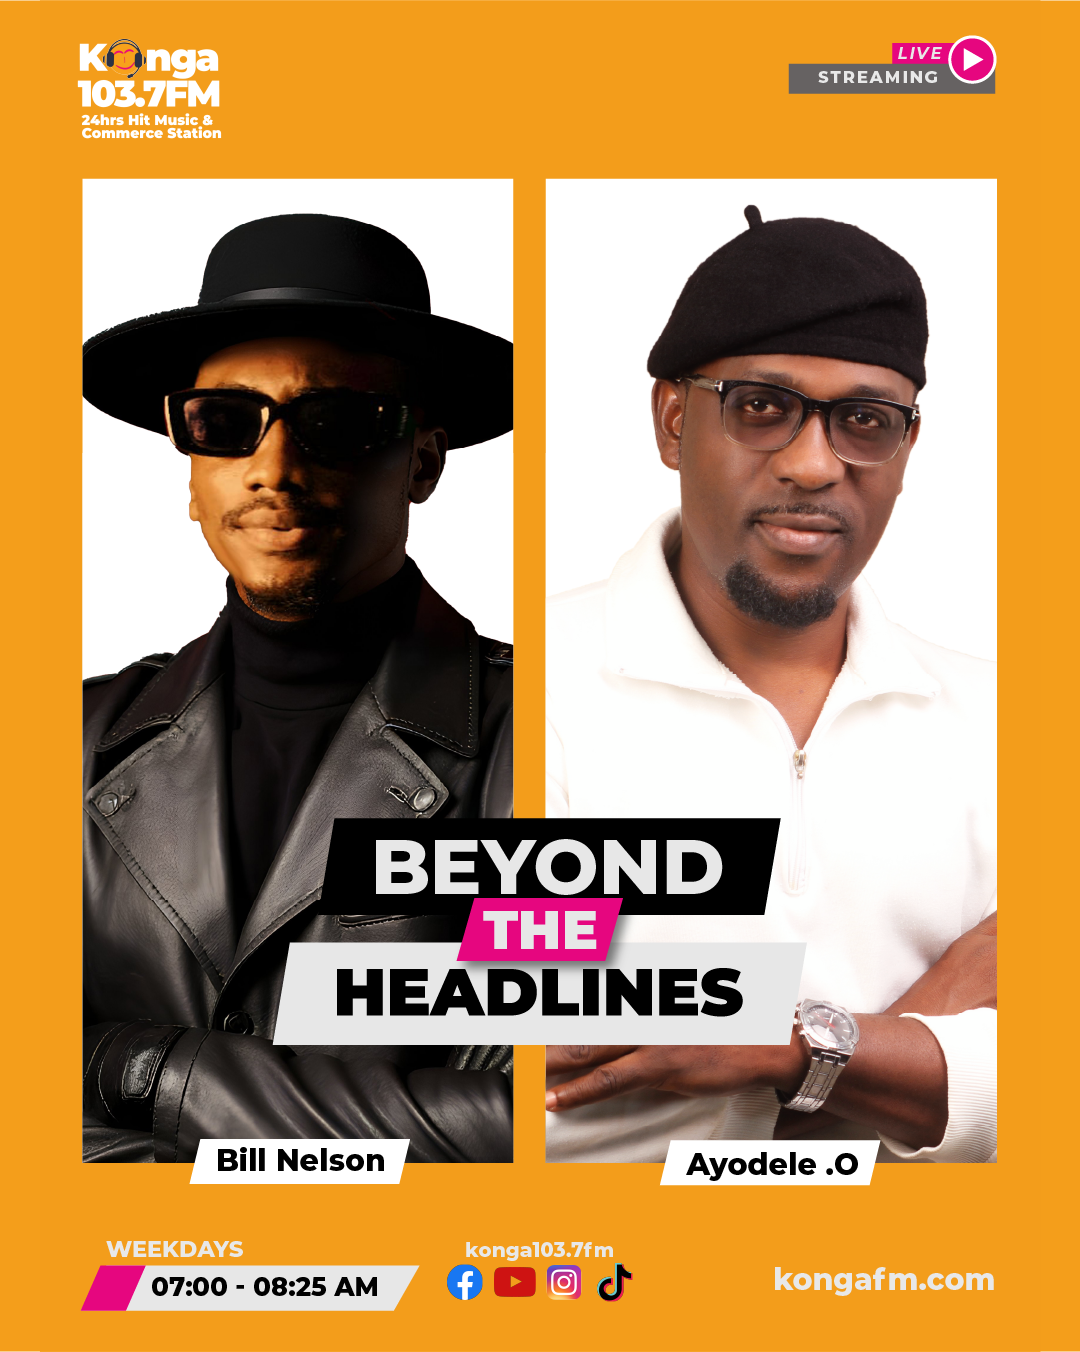
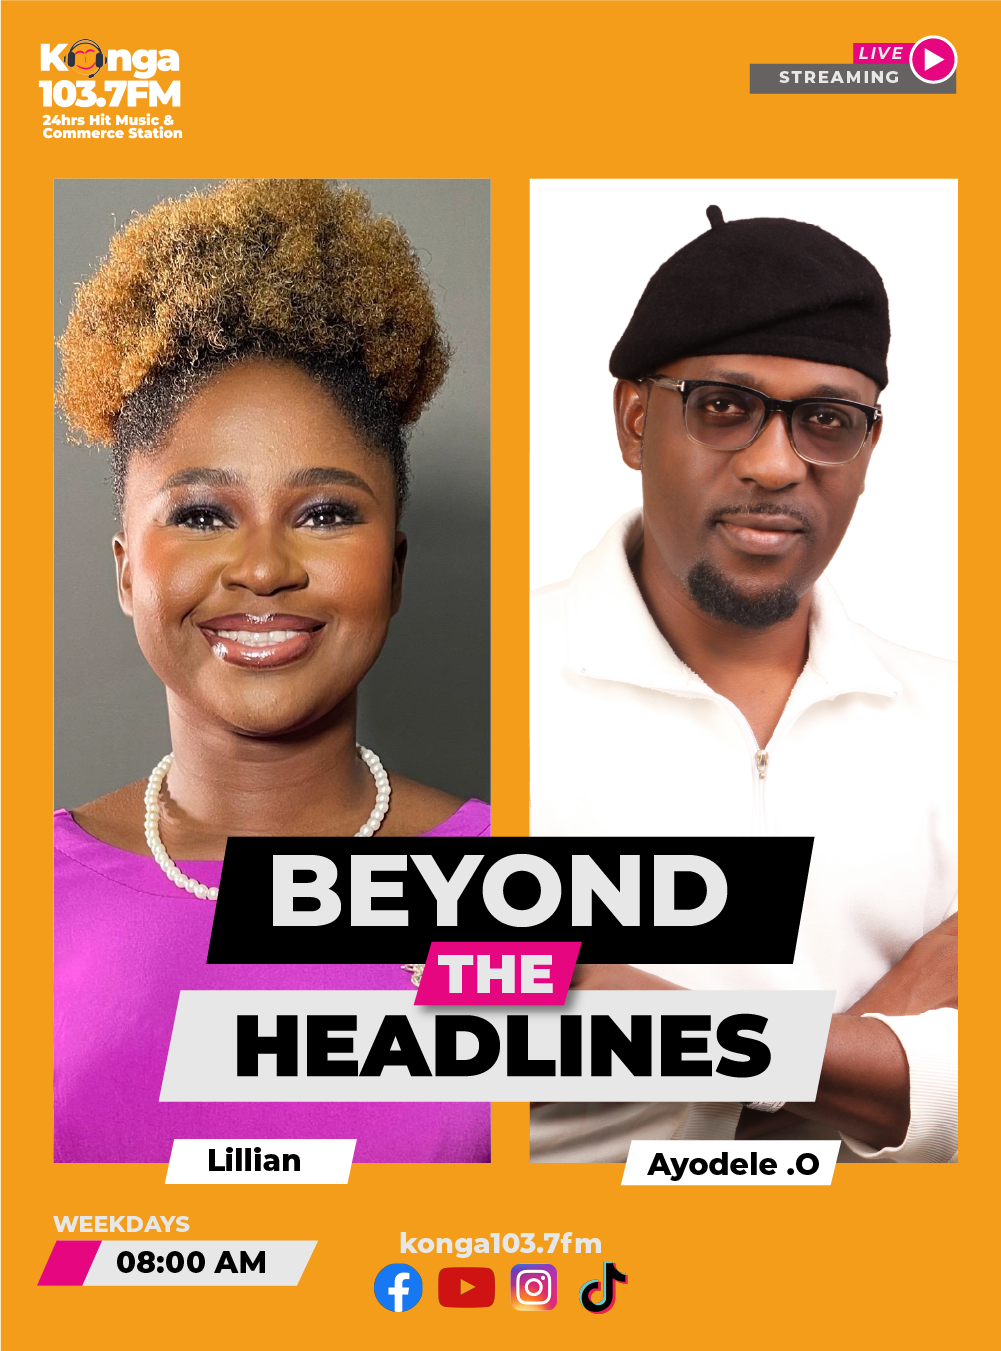
Update FM shows - replace AM Brief with Beyond the Headlines as first show

diff --git a/src/app/page.tsx b/src/app/page.tsx
@@ -28,41 +28,34 @@ export const metadata: Metadata = {
 const FM_SHOWS: ShowCard[] = [
   {
     id: "fm-1",
-    imageUrl: "/FMShows/AM Breif.png",
-    showName: "AM BRIEF",
-    time: "5:00am - 7:00am",
-    link: "/shows/am-brief",
-  },
-  {
-    id: "fm-2",
     imageUrl: "/FMShows/Beyond the headlines.png",
     showName: "BEYOND THE HEADLINES",
     time: "8:00am - 8:30am",
     link: "/shows/beyond-headlines",
   },
   {
-    id: "fm-3",
+    id: "fm-2",
     imageUrl: "/FMShows/Creators corner.png",
     showName: "CREATORS CORNER",
     time: "9:00am - 10:00am",
     link: "/shows/creators-corner",
   },
   {
-    id: "fm-4",
+    id: "fm-3",
     imageUrl: "/FMShows/Cruise Control.png",
     showName: "CRUISE CONTROL",
     time: "12:00pm - 1:00pm",
     link: "/shows/cruise-control",
   },
   {
-    id: "fm-5",
+    id: "fm-4",
     imageUrl: "/FMShows/Shop on radio.png",
     showName: "SHOP ON RADIO",
     time: "4:00pm - 5:00pm",
     link: "/shows/shop-on-radio",
   },
   {
-    id: "fm-6",
+    id: "fm-5",
     imageUrl: "/FMShows/The SCoop.png",
     showName: "THE SCOOP",
     time: "6:00pm - 7:00pm",
